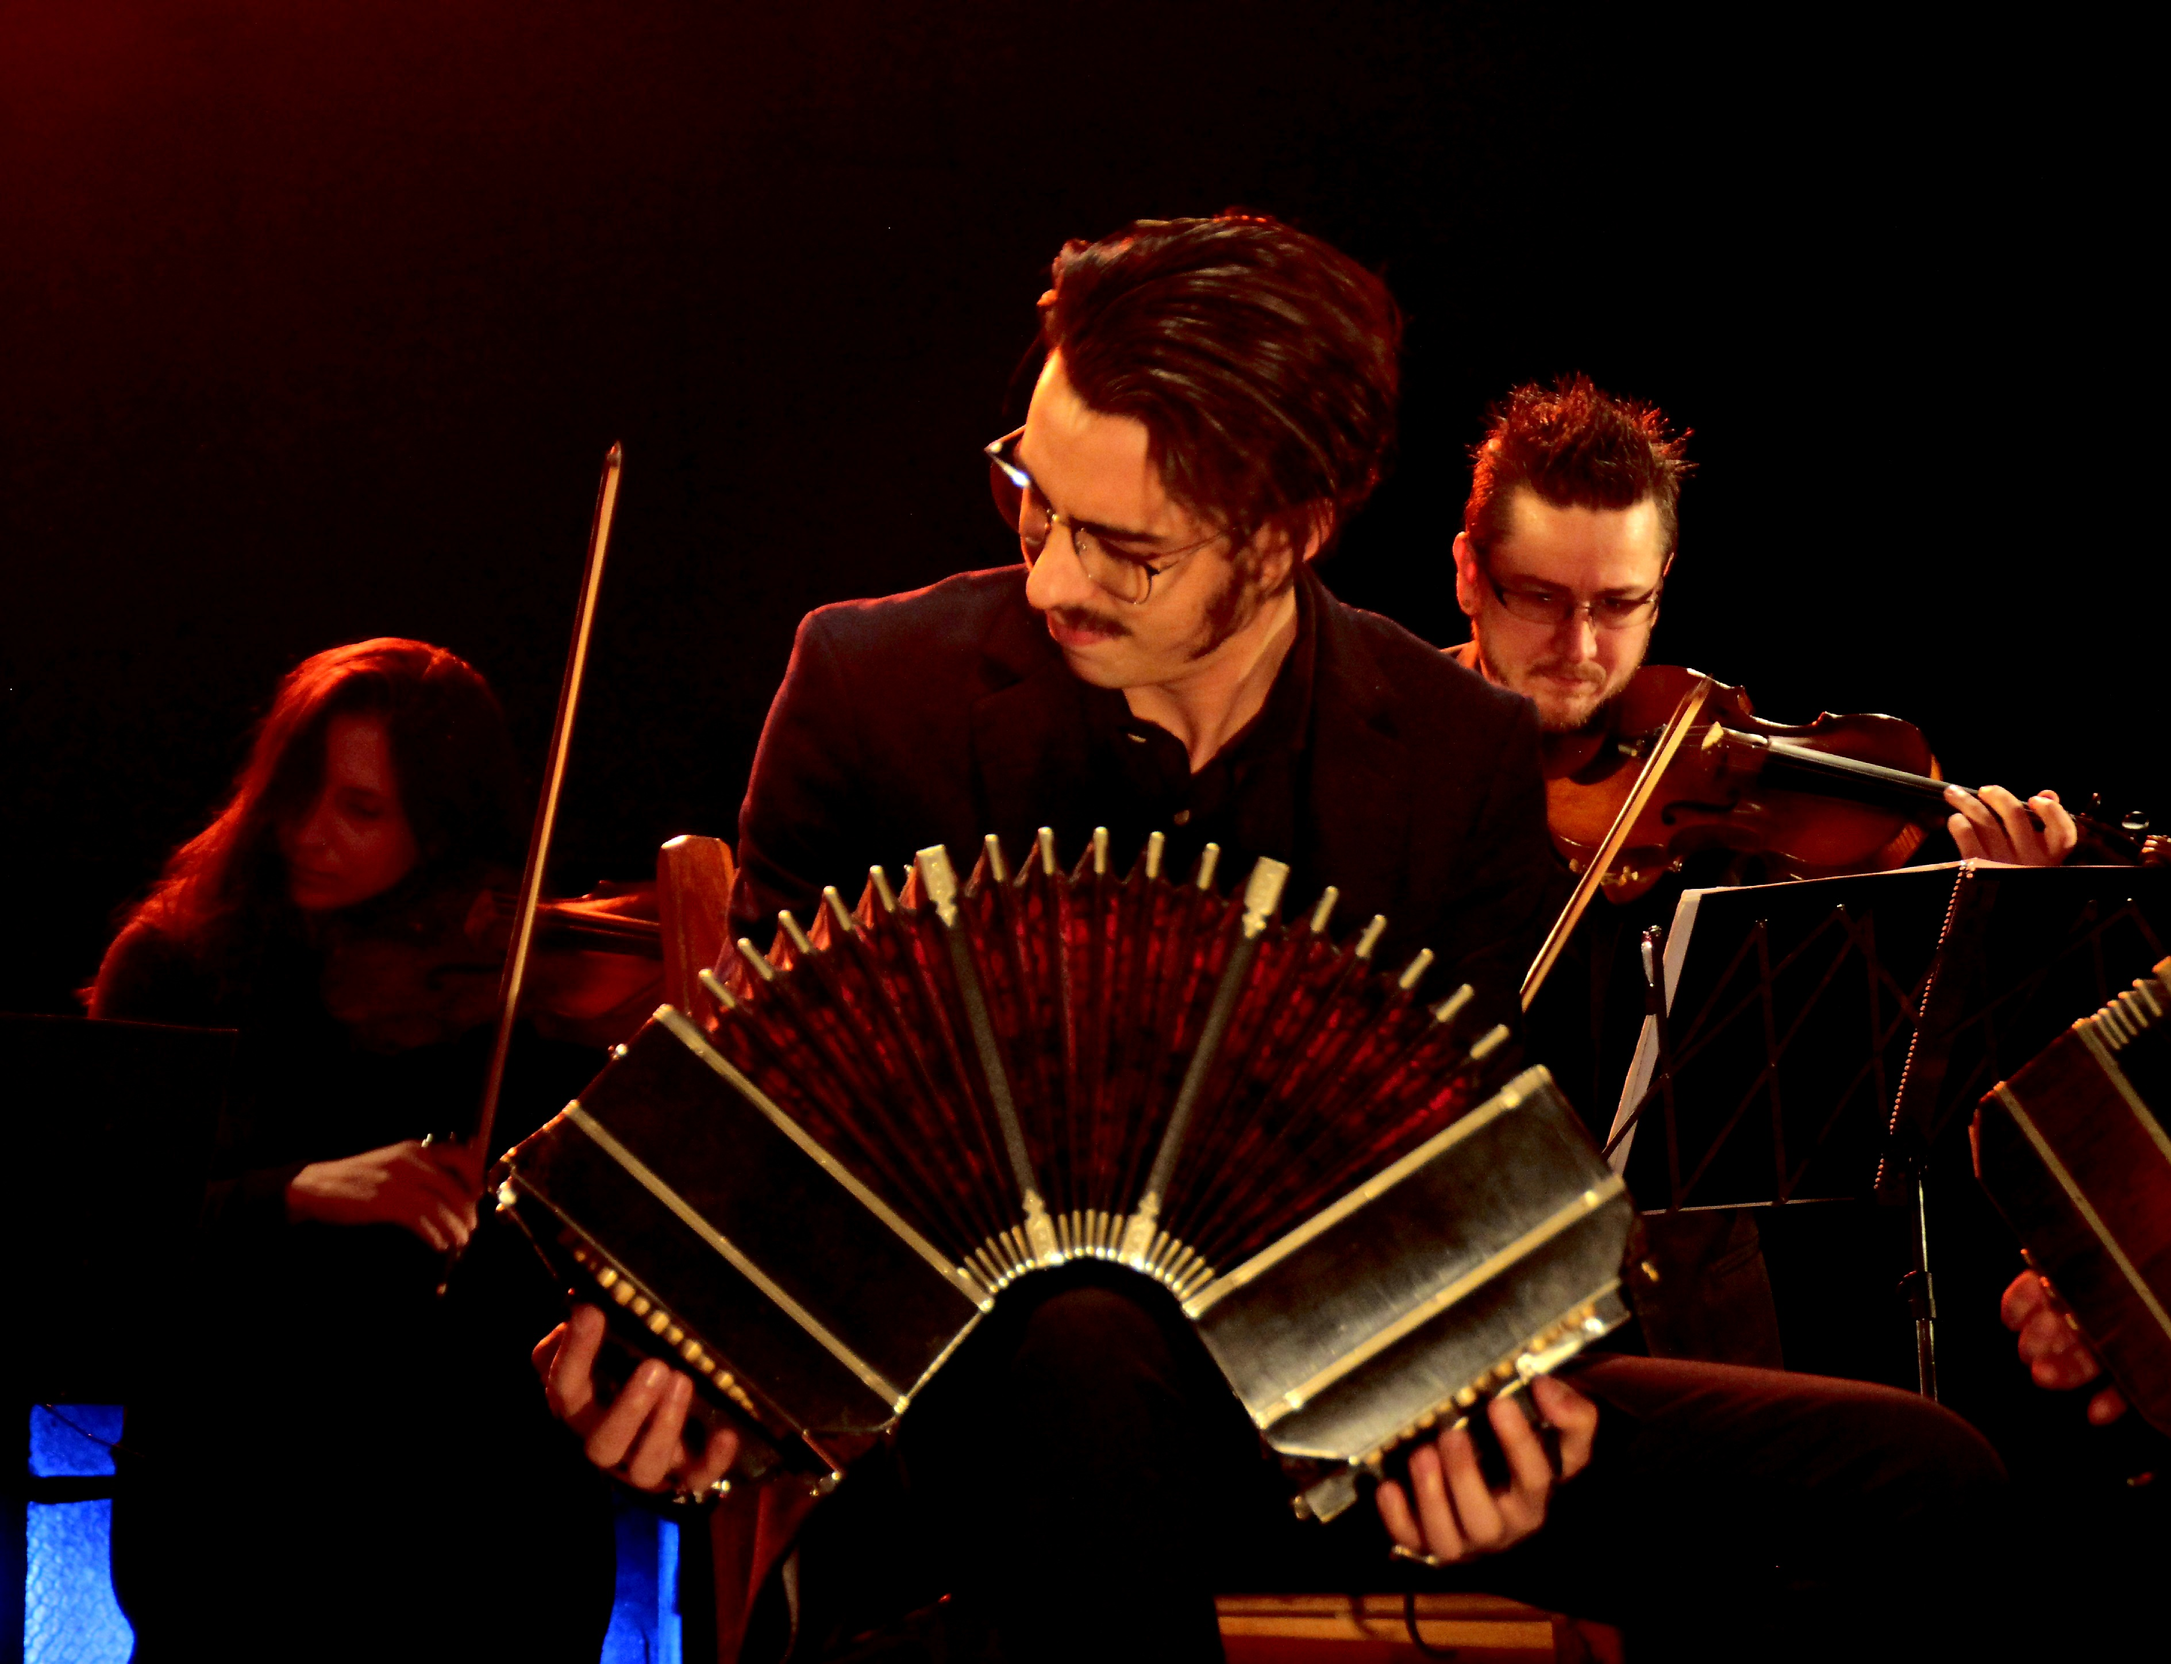
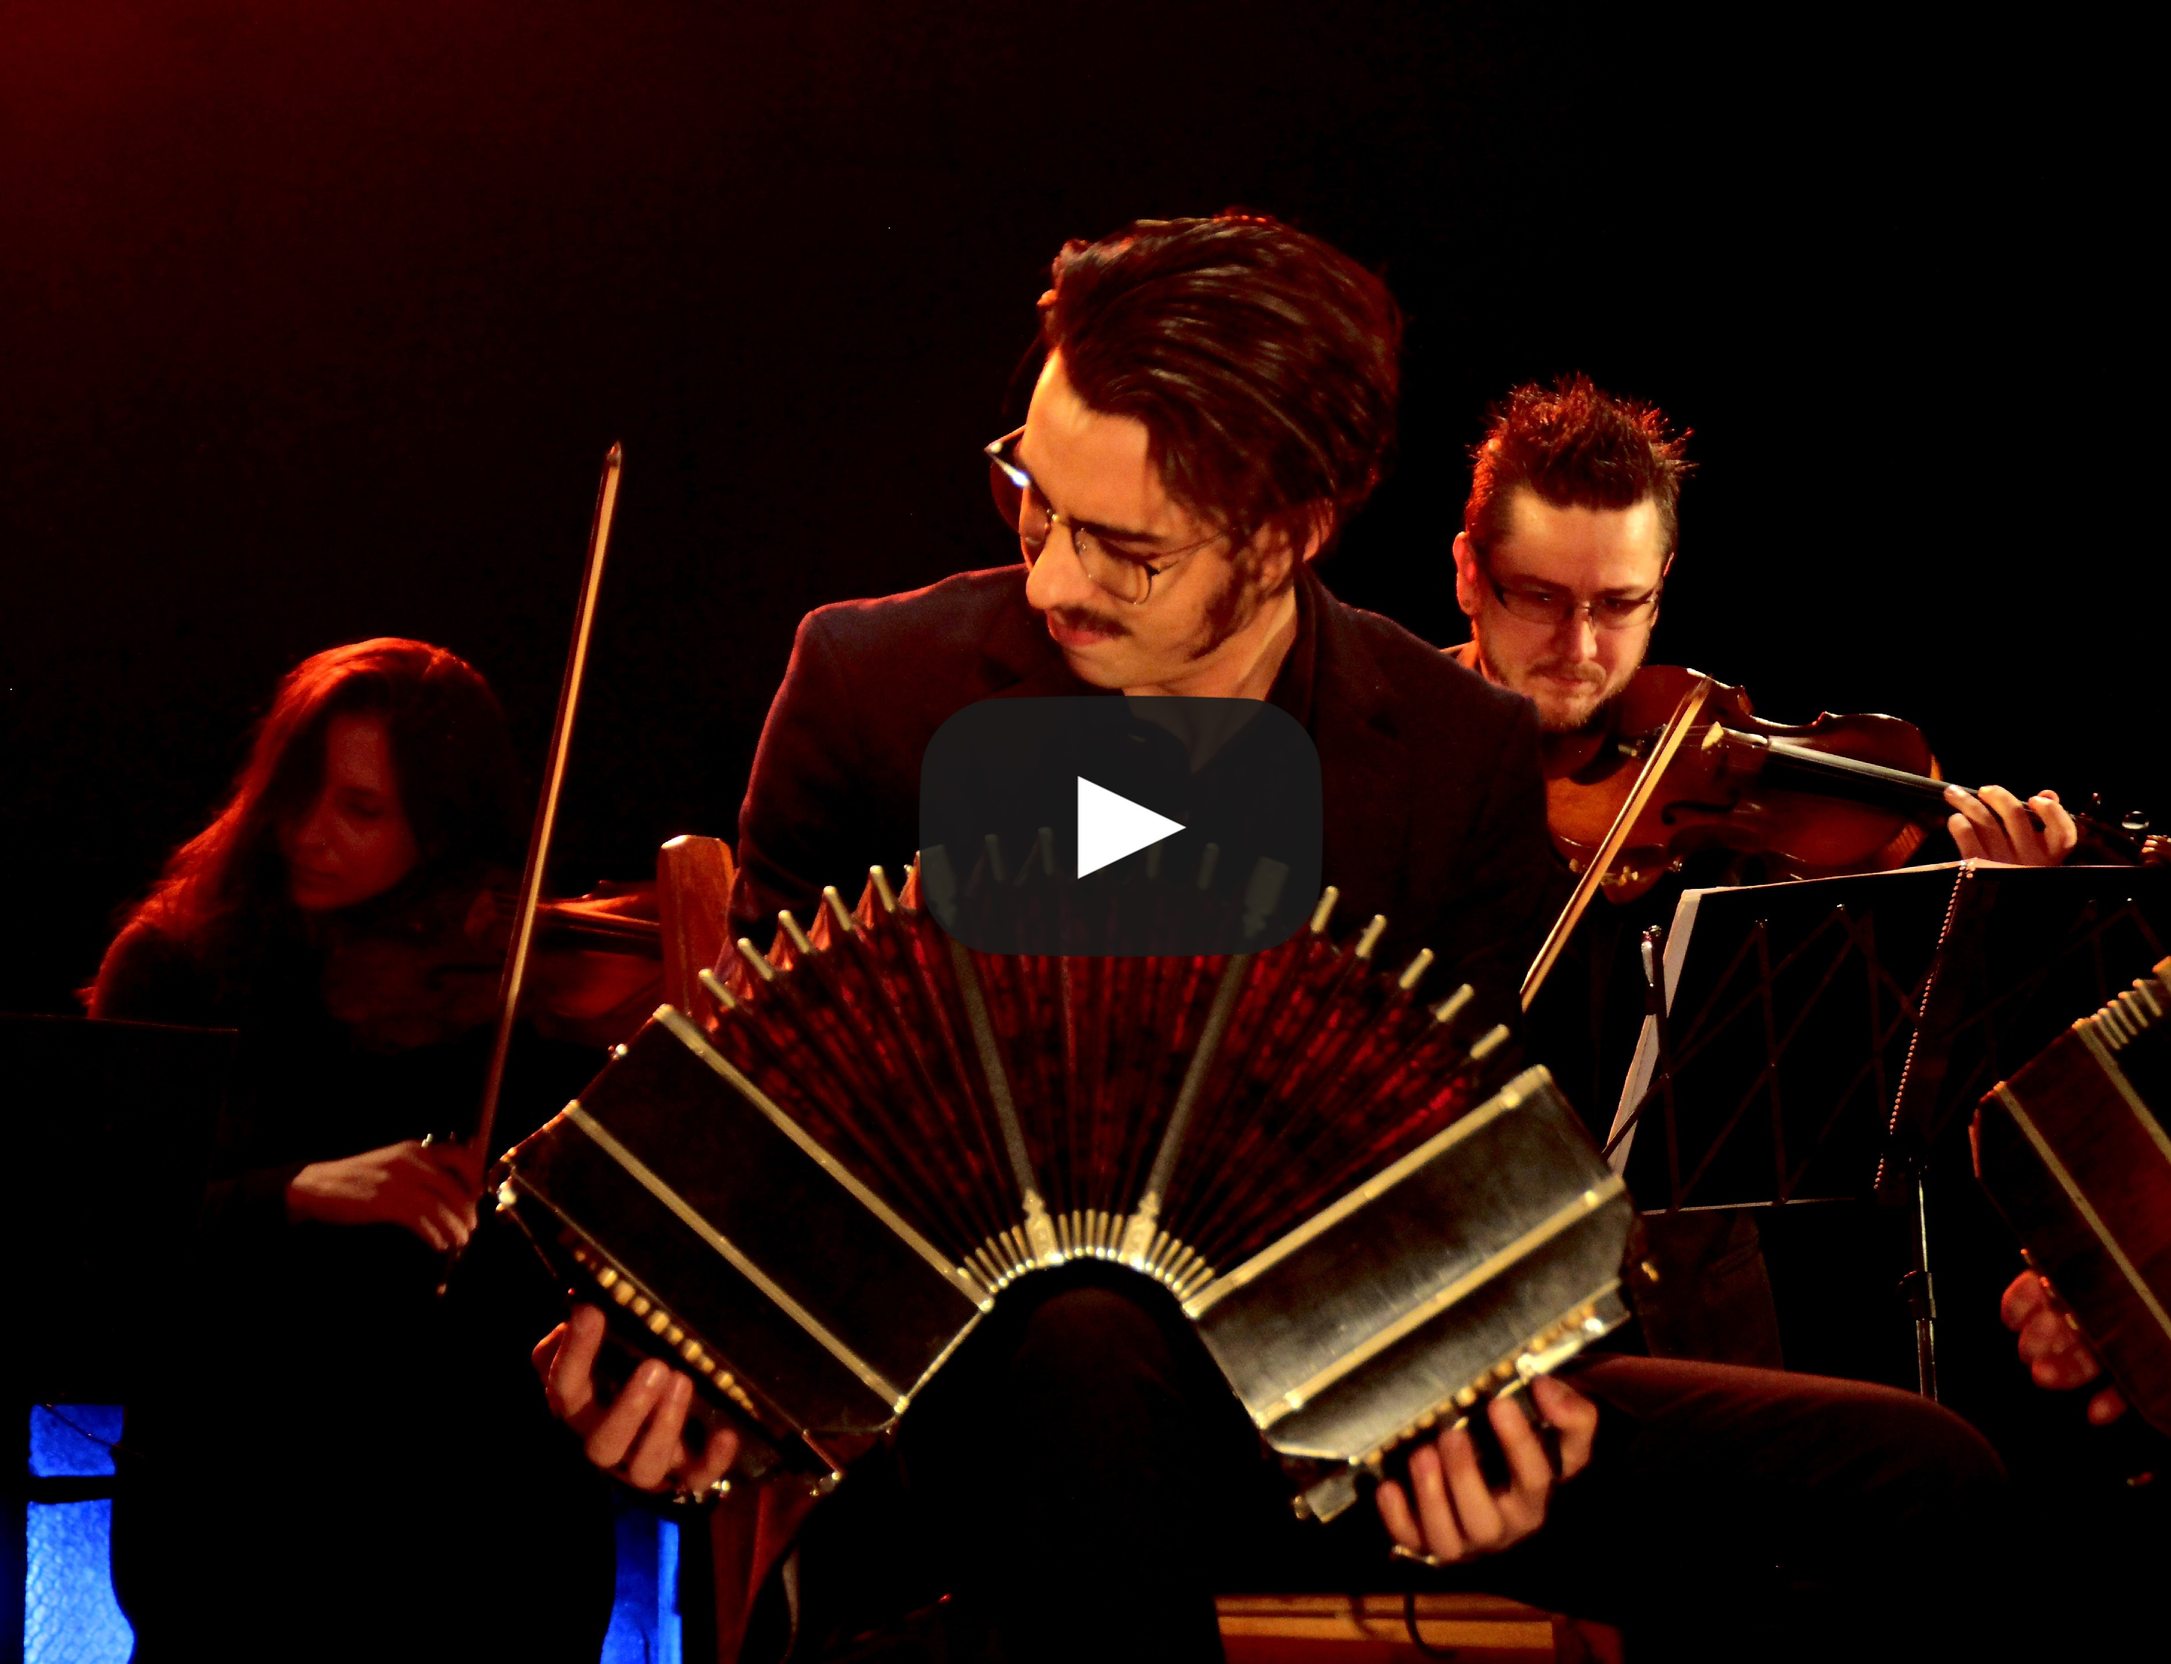
ultimos cambios

Changed region(s): [[0.406, 0.404, 0.5934, 0.5905]]

diff --git a/index.js b/index.js
@@ -135,7 +135,6 @@ const component1 =
                             <li><a href="#">Octavio Bianchi Godoy</a></li>
                             <li><a href="#">Ariadna Bruschini</a></li>
                             <li><a href="#">Laura Tagle</a></li>
-                            <li><a href="#">Hilen Alves</a></li>
                             <li><a href="#">Noelia Saldaña</a></li>
                         </ul>
                         <img src="./fotos ODP/icons8-violin-64.png" alt="ico-violin">
@@ -216,11 +215,14 @@ const component1 =
     
     <!-- PROXIMAMENTE CARD -->
                  <div class="container">
+
+                <a href="https://www.youtube.com/embed/fzGDTseB2jY" autoplay>
                     <img src="./fotos ODP/img-proximamente.jpg" alt="Avatar" class="image" style="width:100%">
                     <div class="middle">
-                      <div class="text">PROXIMAMENTE</div>
+                      <div class="text">TRAILER</div>
                     </div>
                   </div>      
+                </a>
 
 
                   

diff --git a/scss/styles.css b/scss/styles.css
@@ -40,6 +40,7 @@
   font-size: 5em;
   margin-bottom: -5vw;
   display: flex;
+  margin-left: 4rem;
 }
 
 .biografia {
@@ -101,6 +102,8 @@
 }
 .musica-desktop .musica-desktop-avatar img {
   width: 100vw;
+  height: 57rem;
+  filter: blur(6px);
 }
 .musica-desktop .musica-desktop-text {
   font-size: 5em;
@@ -140,6 +143,7 @@
 }
 .videos-desktop .videos-desktop-avatar img {
   width: 100vw;
+  height: 70rem;
 }
 .videos-desktop .videos-desktop-text {
   font-size: 5em;
@@ -225,7 +229,7 @@ a {
 
 /*NAVBAR*/
 .nav-link {
-  color: black;
+  color: rgb(0, 0, 0);
 }
 
 .navbar-nav .nav-link.active, .navbar-nav .show > .nav-link {
@@ -405,7 +409,7 @@ h4 {
 
 /*MUSICA Y VIDEOS*/
 .spotify {
-  box-shadow: 1px 2px 9px black;
+  box-shadow: 1px 2px 9px rgba(0, 0, 0, 0.781);
   margin-top: 50px;
 }
 

diff --git a/pages/videos.html b/pages/videos.html
@@ -50,15 +50,13 @@
 
 
     <main>  
+
+        <a href="https://www.youtube.com/embed/fzGDTseB2jY" autoplay>
             <div class="videos-desktop" >
             <div class="videos-desktop-avatar">
             <img  src="../fotos ODP/BANDONEONES 2.jpg" alt="Avatar">
-            </div>
-          
-              <div class="videos-desktop-text fade-in-fwd"> PROXIMAMENTE  </div>
-            </div>
 
-           
+        </a>
 
 
         <!-- <section class="musica" id="musica">

diff --git a/scss/styles.scss b/scss/styles.scss
@@ -25,7 +25,7 @@ a {
 /*NAVBAR*/
 
 .nav-link{
-  color: black;
+  color: rgb(0, 0, 0);
 }
 
 .navbar-nav .nav-link.active, .navbar-nav .show>.nav-link {
@@ -95,6 +95,7 @@ button.navbar-toggler{
 
 section .bio-titulo {
   font-size: 2rem;
+  
 }
 
 .banner {
@@ -220,7 +221,7 @@ h4 {
 /*MUSICA Y VIDEOS*/
 
 .spotify{
-  box-shadow: 1px 2px 9px black;
+  box-shadow: 1px 2px 9px rgba(0, 0, 0, 0.781);
   margin-top: 50px;
 }
 

diff --git a/pages/bio.html b/pages/bio.html
@@ -188,7 +188,6 @@
                         <li><a href="#">Octavio Bianchi Godoy</a></li>
                         <li><a href="#">Ariadna Bruschini</a></li>
                         <li><a href="#">Laura Tagle</a></li>
-                        <li><a href="#">Hilen Alves</a></li>
                         <li><a href="#">Noelia Saldaña</a></li>
                     </ul>
                     </div>

diff --git a/pages/musica.html b/pages/musica.html
@@ -52,7 +52,7 @@
     <main>  
             <div class="musica-desktop" >
             <div class="musica-desktop-avatar">
-            <img  src="../fotos ODP/BANDONEONES 4.jpg" alt="Avatar">
+            <img  src="../fotos ODP/tapaDisco.jpg" alt="Avatar">
             </div>
           
               <div class="musica-desktop-text fade-in-fwd"> PROXIMAMENTE  </div>

diff --git a/scss/_musicaDesktop.scss b/scss/_musicaDesktop.scss
@@ -6,6 +6,8 @@
 
     .musica-desktop-avatar img{
         width: 100vw;
+        height: 57rem;
+        filter: blur(6px);
     }
 
     .musica-desktop-text{

diff --git a/scss/_videosDesktop.scss b/scss/_videosDesktop.scss
@@ -6,6 +6,7 @@
 
     .videos-desktop-avatar img{
         width: 100vw;
+        height: 70rem;
     }
 
     .videos-desktop-text{

diff --git a/scss/_bioDesktop.scss b/scss/_bioDesktop.scss
@@ -23,6 +23,7 @@
     font-size: 5em;
     margin-bottom: -5vw;
     display: flex;
+    margin-left: 4rem;
 }
 
 
